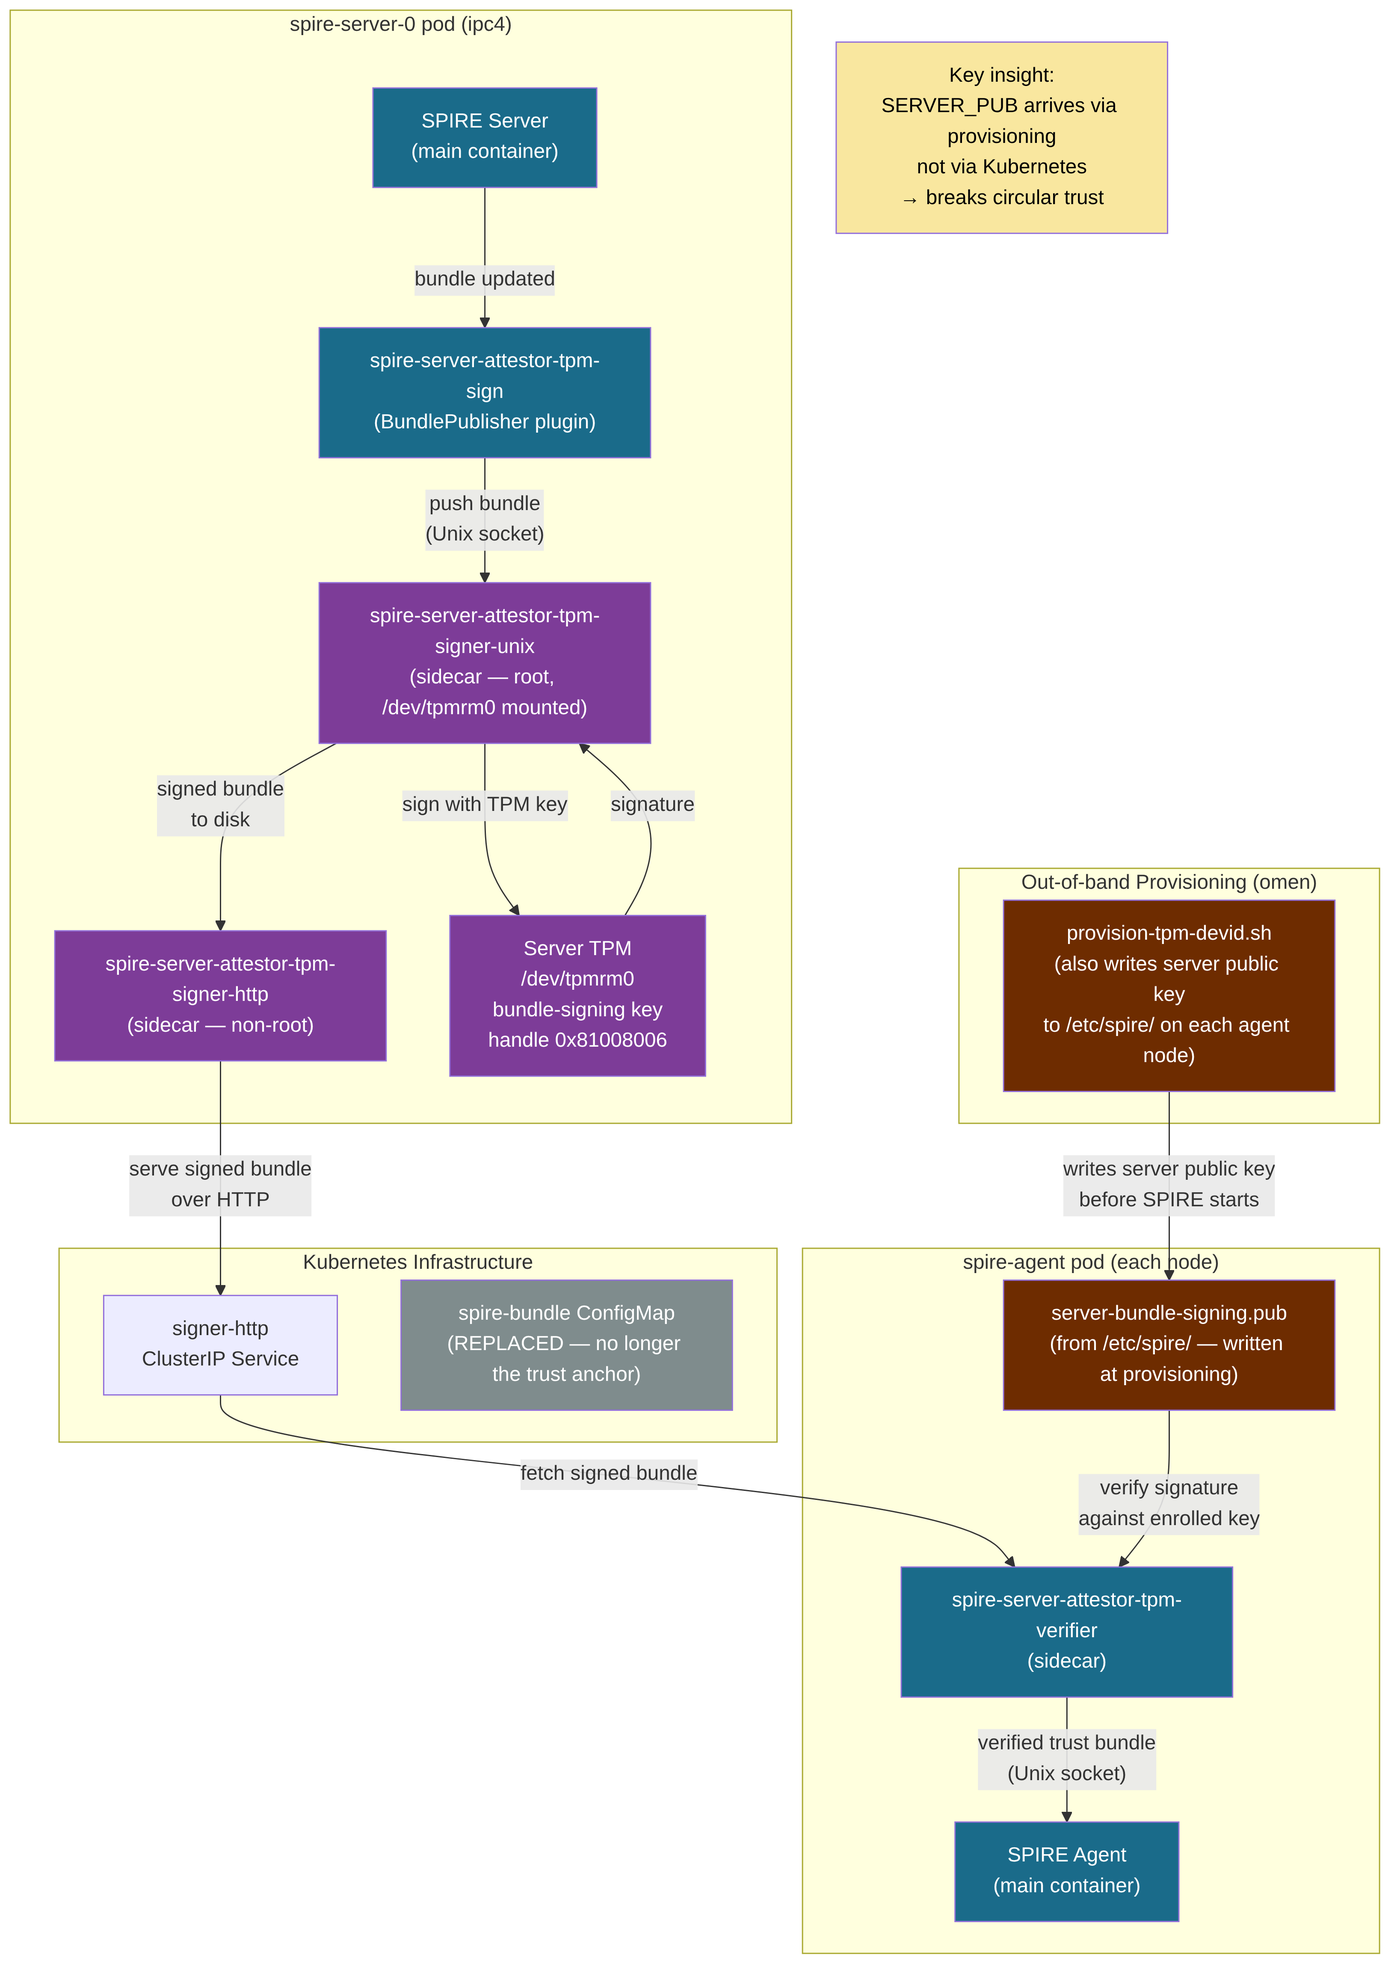
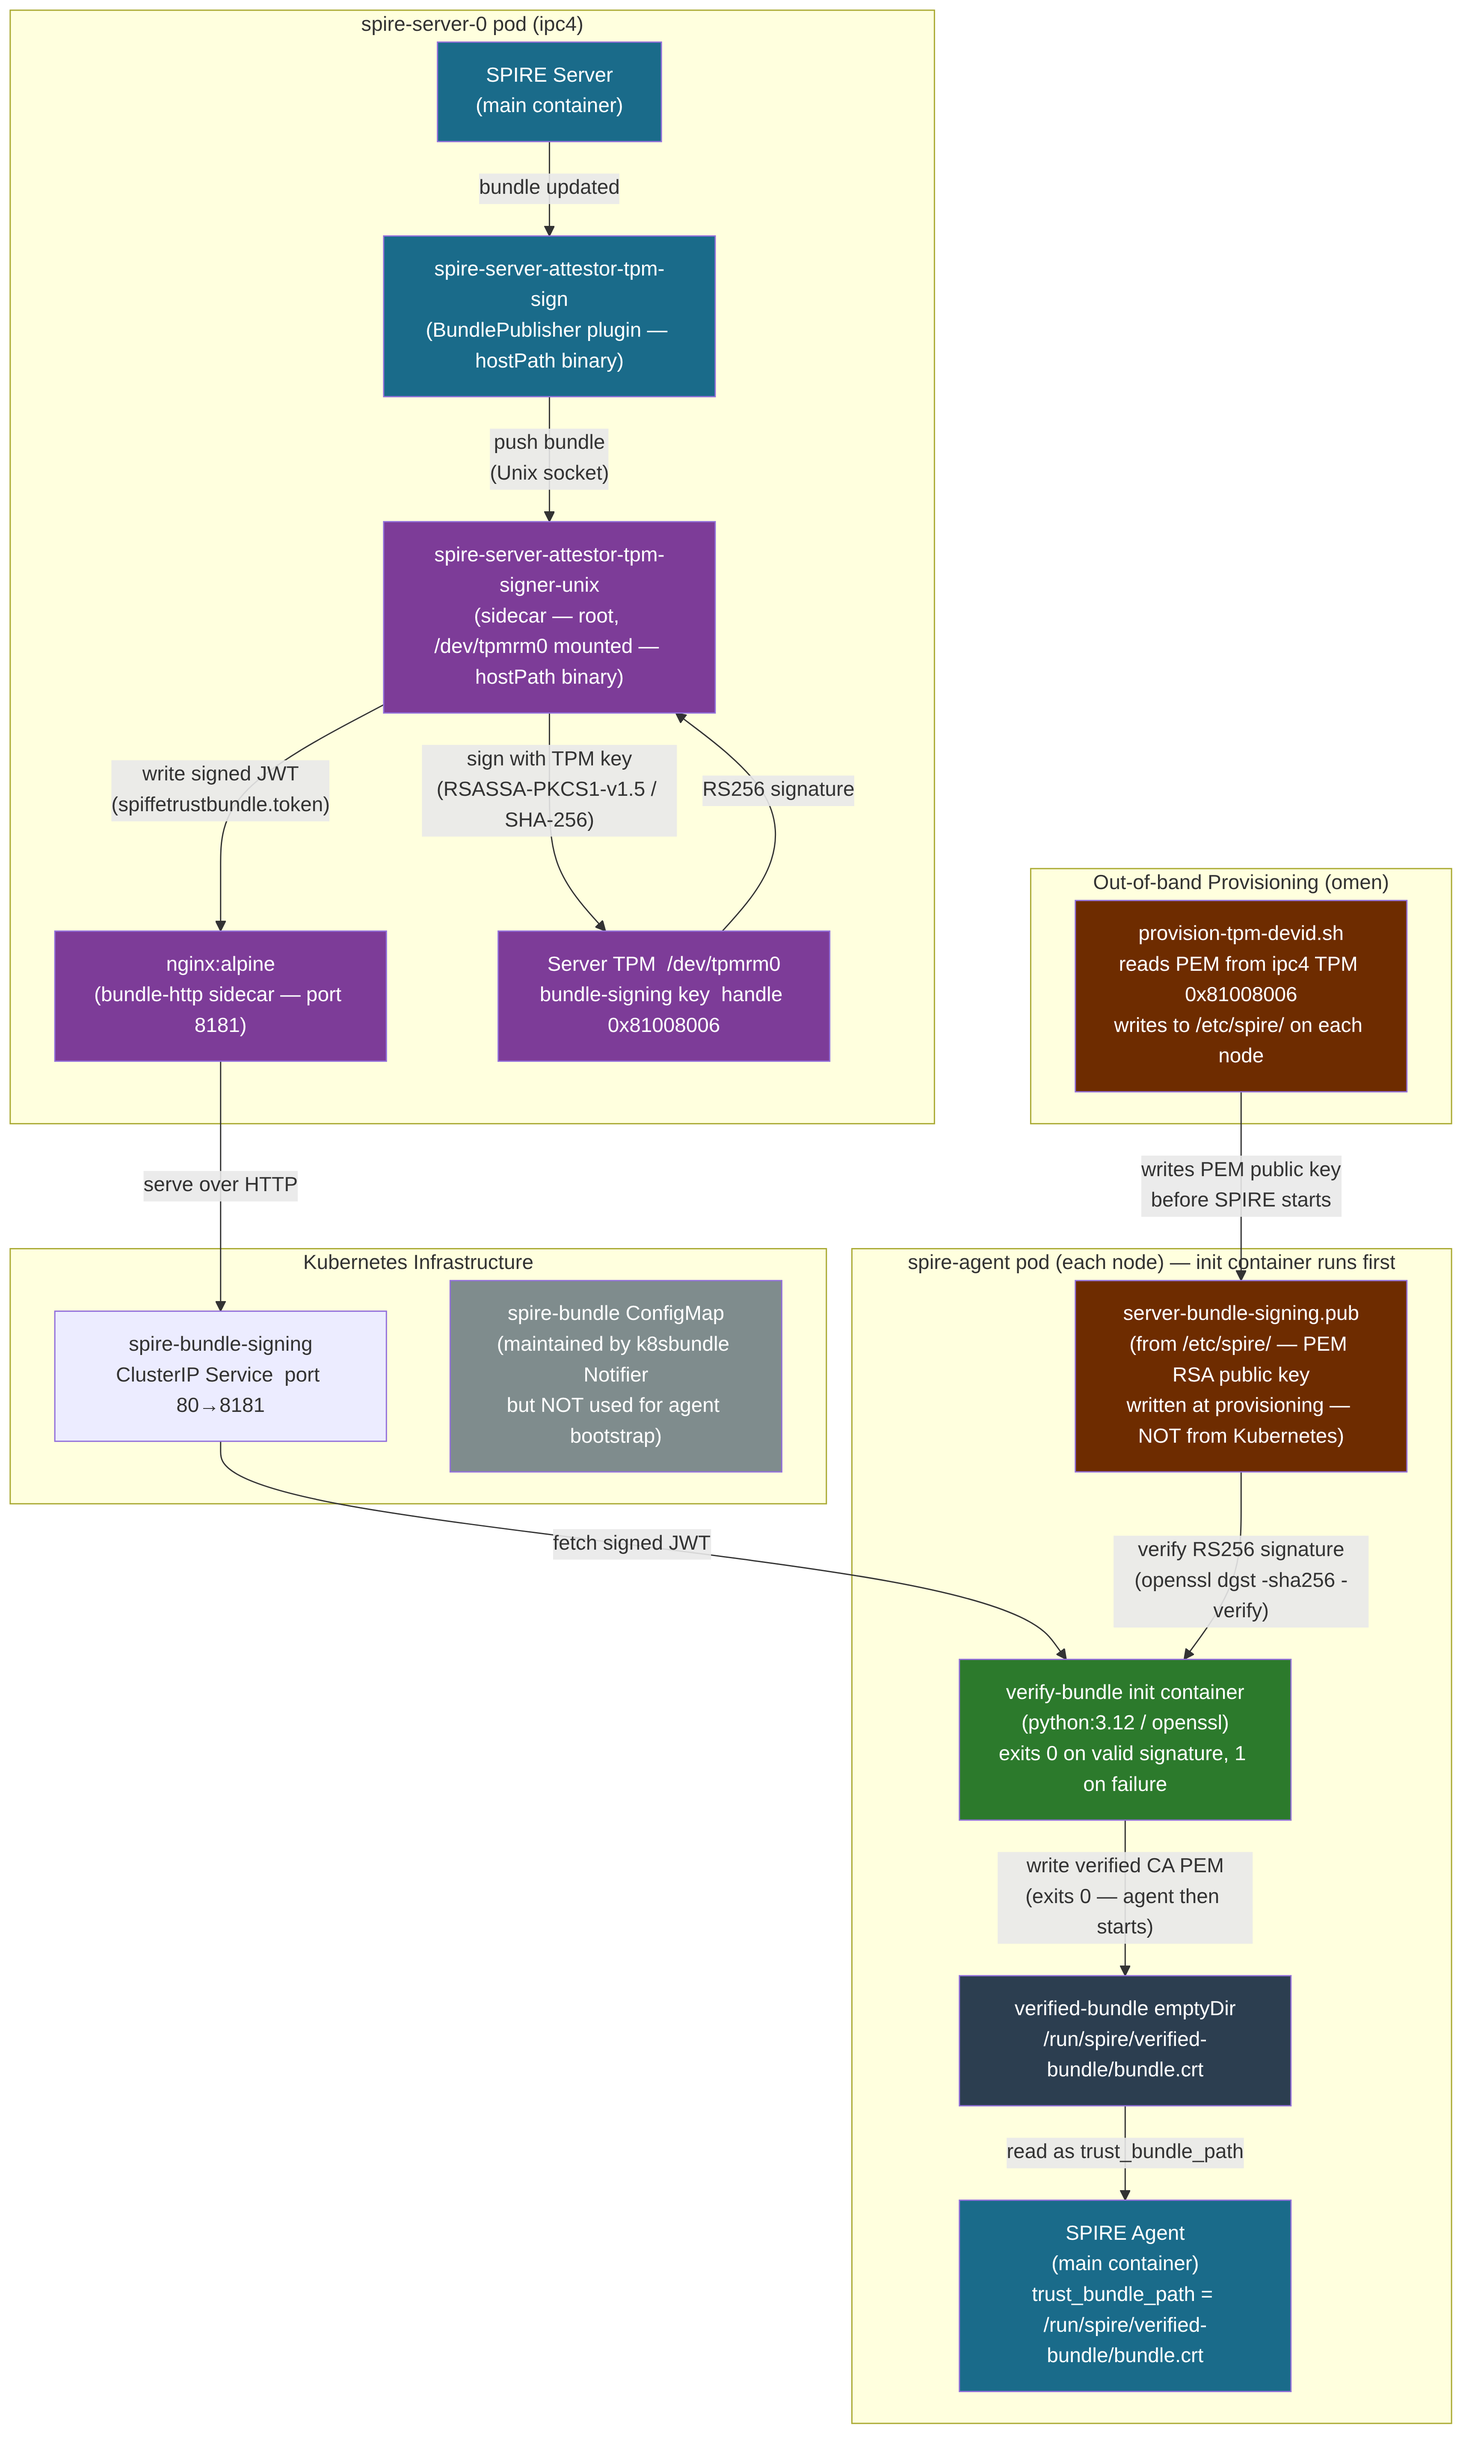
docs(spire): update docs and diagrams to reflect actual implementation
Verified end-to-end attestation (all 6 nodes tpm_devid, SVIDs issuing
and renewing) then corrected every stale detail discovered:

- DevID fingerprints: all 6 updated after cluster rebuild regenerated keys
- k8s_psat node alias: was NOT deleted; both entries coexist (corrected)
- verify-bundle: init container (python:3.12/openssl), not a persistent
  verifier sidecar; agent uses trust_bundle_path to emptyDir volume
- bundle-http sidecar is nginx:alpine, not spire-server-attestor-tpm-signer-http
- sign/signer-unix binaries come from hostPath on ipc4, not an init-container emptyDir
- Config reference tables: node attestor rows changed to tpm_devid; trust
  bundle path updated; BundlePublisher row added
- Architecture diagram: removed stale BUNDLE→agent dashed arrows; BUNDLE
  node greyed out (maintained by k8sbundle notifier, not the agent bootstrap path)
- Bundle-signing diagram: rewritten to show init container flow and nginx

diff --git a/docs/spire-concepts.md b/docs/spire-concepts.md
@@ -524,15 +524,14 @@ from the SHA-1 fingerprint of its DevID certificate:
 
 | Node | SPIFFE ID (agent) |
 |------|-------------------|
-| ipc4 | `spiffe://ipc.local/spire/agent/tpm_devid/42a1e85ad43b4c136b83573d0b4ac60b93306ee6` |
-| ipc5 | `spiffe://ipc.local/spire/agent/tpm_devid/78d5a22ca1d23e1fcf7e18258bcdfc341167eeac` |
-| ipc6 | `spiffe://ipc.local/spire/agent/tpm_devid/8cbaa975848b0c844f7a3197f6240c35ad060f58` |
-| ipc7 | `spiffe://ipc.local/spire/agent/tpm_devid/31dc39d59d115c652b1d46e9f5b8dd2deebb799e` |
-| ipc8 | `spiffe://ipc.local/spire/agent/tpm_devid/4acd537f6b1e99624917a59bce683559d04aa04e` |
-| ipc9 | `spiffe://ipc.local/spire/agent/tpm_devid/f5d3754a4cf4c0f65caeb3ae027e9f03d24c5019` |
+| ipc4 | `spiffe://ipc.local/spire/agent/tpm_devid/25a1f67bfc2a6dc830de61d8dd2b5e788593864d` |
+| ipc5 | `spiffe://ipc.local/spire/agent/tpm_devid/37bec218b1f39af8e7db42f04d710a3a73f0cca5` |
+| ipc6 | `spiffe://ipc.local/spire/agent/tpm_devid/ab96c7507b860042e3711446552e8d2eb5374476` |
+| ipc7 | `spiffe://ipc.local/spire/agent/tpm_devid/8b84df1549516ddba24415505b989fbb9cea49a9` |
+| ipc8 | `spiffe://ipc.local/spire/agent/tpm_devid/27bd47f544c71bd8ed20ec07c546a225f514375a` |
+| ipc9 | `spiffe://ipc.local/spire/agent/tpm_devid/dd04bfbf9dbfb604b0fdc1bf1d42d03e73788417` |
 
-**Registration entries** updated: the old node alias entry (selector `k8s_psat:cluster:ipc`)
-was deleted and replaced with a new one:
+**Registration entries** updated: a new node alias entry was added alongside the existing `k8s_psat` entry:
 ```
 SPIFFE ID: spiffe://ipc.local/k8s-node
 Parent:    spiffe://ipc.local/spire/server
@@ -696,15 +695,11 @@ the components are adapted as pod sidecars:
 
 - `signer-unix` and `signer-http` run as sidecar containers in the `spire-server`
   StatefulSet pod. `signer-unix` has `/dev/tpmrm0` mounted.
-- The `sign` plugin binary is available to the SPIRE server container via a shared
-  emptyDir volume populated by an init container.
+- The `sign` plugin binary is a hostPath volume mounted from `/usr/local/bin/spire-server-attestor-tpm-sign` on ipc4 (the server node). Similarly, the `signer-unix` binary is mounted from `/usr/local/bin/spire-server-attestor-tpm-signer-unix`.
 - The HTTP endpoint is exposed as a ClusterIP Kubernetes Service.
-- `verifier` runs as a sidecar container in the `spire-agent` DaemonSet pod. It reads
-  the server's public key from `/etc/spire/server-bundle-signing.pub` (on the node
-  filesystem, written during provisioning).
-- The SPIRE agent uses `trust_bundle_unix_socket` (pointing to the verifier's socket)
-  instead of `trust_bundle_path` (the ConfigMap). The `init-bundle` init container is
-  removed — the verifier replaces it.
+- Instead of the `verifier` binary, a `verify-bundle` **init container** (`docker.io/library/python:3.12`) runs the verification at agent pod startup. It fetches the signed JWT from the `spire-bundle-signing` ClusterIP Service (the nginx sidecar), verifies the RS256 signature using `openssl dgst -sha256 -verify` against `/etc/spire/server-bundle-signing.pub`, extracts the `spiffetb` payload, and writes it to `/run/spire/verified-bundle/bundle.crt` on a shared `emptyDir` volume. The agent pod does not start until this init container exits 0.
+- The SPIRE agent uses `trust_bundle_path = "/run/spire/verified-bundle/bundle.crt"` (the emptyDir written by the init container) instead of the unauthenticated `spire-bundle` ConfigMap.
+- The `bundle-http` sidecar in the server pod is **nginx:alpine** (not the dedicated `signer-http` binary from the project). nginx serves `/var/spire/signed-bundle/` on port 8181; the ConfigMap `spire-signer-unix-config` contains both the signer-unix config and an nginx vhost config with `Cache-Control: no-store`.
 - `scripts/provision-tpm-devid.sh` is extended to also write
   `/etc/spire/server-bundle-signing.pub` on every agent node.
 
@@ -753,10 +748,11 @@ This replaces Vault's Kubernetes auth method with a stronger, SPIFFE-native iden
 | Setting | Value |
 |---------|-------|
 | Trust domain | `ipc.local` |
-| Node attestor | `k8s_psat`, cluster: `ipc`, allowed SA: `spire:spire-agent` |
+| Node attestor | `tpm_devid`; DevID CA: `config/tpm/devid-ca.pem`; EK CA bundle: `config/tpm/endorsement-ca-bundle.pem` |
 | Key manager | Disk (`/run/spire/data/keys.json`) |
 | Datastore | SQLite3 (`/run/spire/data/datastore.sqlite3`) |
 | Notifier | `k8s_bundle` → ConfigMap `spire-bundle` |
+| BundlePublisher | `tpm-sign` plugin → signer-unix socket; frequency 5m |
 | gRPC port | 8081 |
 | Health port | 8080 (`/live`, `/ready`) |
 
@@ -766,9 +762,9 @@ This replaces Vault's Kubernetes auth method with a stronger, SPIFFE-native iden
 |---------|-------|
 | Trust domain | `ipc.local` |
 | Server | `spire-server:8081` |
-| Trust bundle | `/run/spire/bundle/bundle.crt` |
+| Trust bundle | `/run/spire/verified-bundle/bundle.crt` (emptyDir written by `verify-bundle` init container) |
 | Workload API socket | `/run/spire/sockets/agent.sock` |
-| Node attestor | `k8s_psat`, cluster: `ipc` |
+| Node attestor | `tpm_devid`; DevID blobs from `/etc/spire/`; `/dev/tpmrm0` |
 | Workload attestor | `k8s`, `skip_kubelet_verification: true`, `use_new_container_locator: true` |
 | Key manager | Memory |
 | Health port | 8080 |
